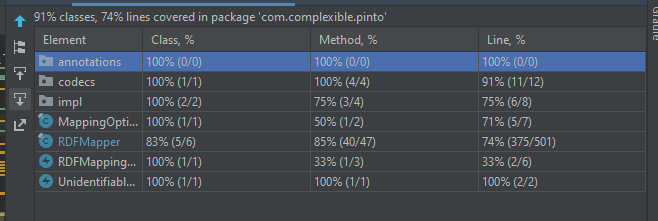
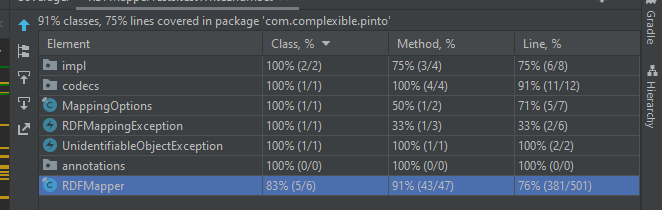
unit teszt plusz 3

diff --git a/test/src/com/complexible/pinto/RDFMapperTests.java b/test/src/com/complexible/pinto/RDFMapperTests.java
@@ -31,11 +31,9 @@ import com.google.common.collect.Lists;
 import com.google.common.collect.Maps;
 import com.google.common.collect.Sets;
 import com.google.common.hash.Hashing;
+import net.bytebuddy.implementation.bytecode.collection.CollectionFactory;
 import org.junit.*;
-import org.openrdf.model.Literal;
-import org.openrdf.model.Model;
-import org.openrdf.model.Resource;
-import org.openrdf.model.Statement;
+import org.openrdf.model.*;
 import org.openrdf.model.impl.EmptyModel;
 import org.openrdf.model.impl.SimpleValueFactory;
 import org.openrdf.model.util.Models;
@@ -45,6 +43,7 @@ import java.beans.PropertyDescriptor;
 import java.io.File;
 import java.net.URI;
 import java.net.URISyntaxException;
+import java.text.ParseException;
 import java.util.Collection;
 import java.util.Date;
 import java.util.EnumSet;
@@ -58,9 +57,7 @@ import java.util.TimeZone;
 import java.util.UUID;
 import java.util.stream.Collectors;
 
-import static org.junit.Assert.assertEquals;
-import static org.junit.Assert.assertTrue;
-
+import static org.junit.Assert.*;
 import static org.mockito.Mockito.*;
 
 /**
@@ -804,7 +801,26 @@ public class RDFMapperTests {
 		assertEquals(x.getSourceGraph(), null);
 	}
 
+	@Test
+	public void teszt3CollectionFactory() throws Exception {
+		RDFMapper.CollectionFactory mCollectionFactory = new RDFMapper.DefaultCollectionFactory();
+		RDFMapper.Builder collectionFactory = RDFMapper.builder().collectionFactory(mCollectionFactory);
+		assertNotNull(collectionFactory);
+	}
 
+	@Test
+	public void teszt4MapFactory() throws Exception {
+		RDFMapper.MapFactory mMapFactory = new RDFMapper.DefaultMapFactory();
+		RDFMapper.Builder mapFactory = RDFMapper.builder().mapFactory(mMapFactory);
+		assertNotNull(mapFactory);
+	}
+
+	@Test
+	public void teszt5ValueFactory() throws Exception {
+		ValueFactory mValueFactory = SimpleValueFactory.getInstance();
+		RDFMapper.Builder valueFactory = RDFMapper.builder().valueFactory(mValueFactory);
+		assertNotNull(valueFactory);
+	}
 
 
 
